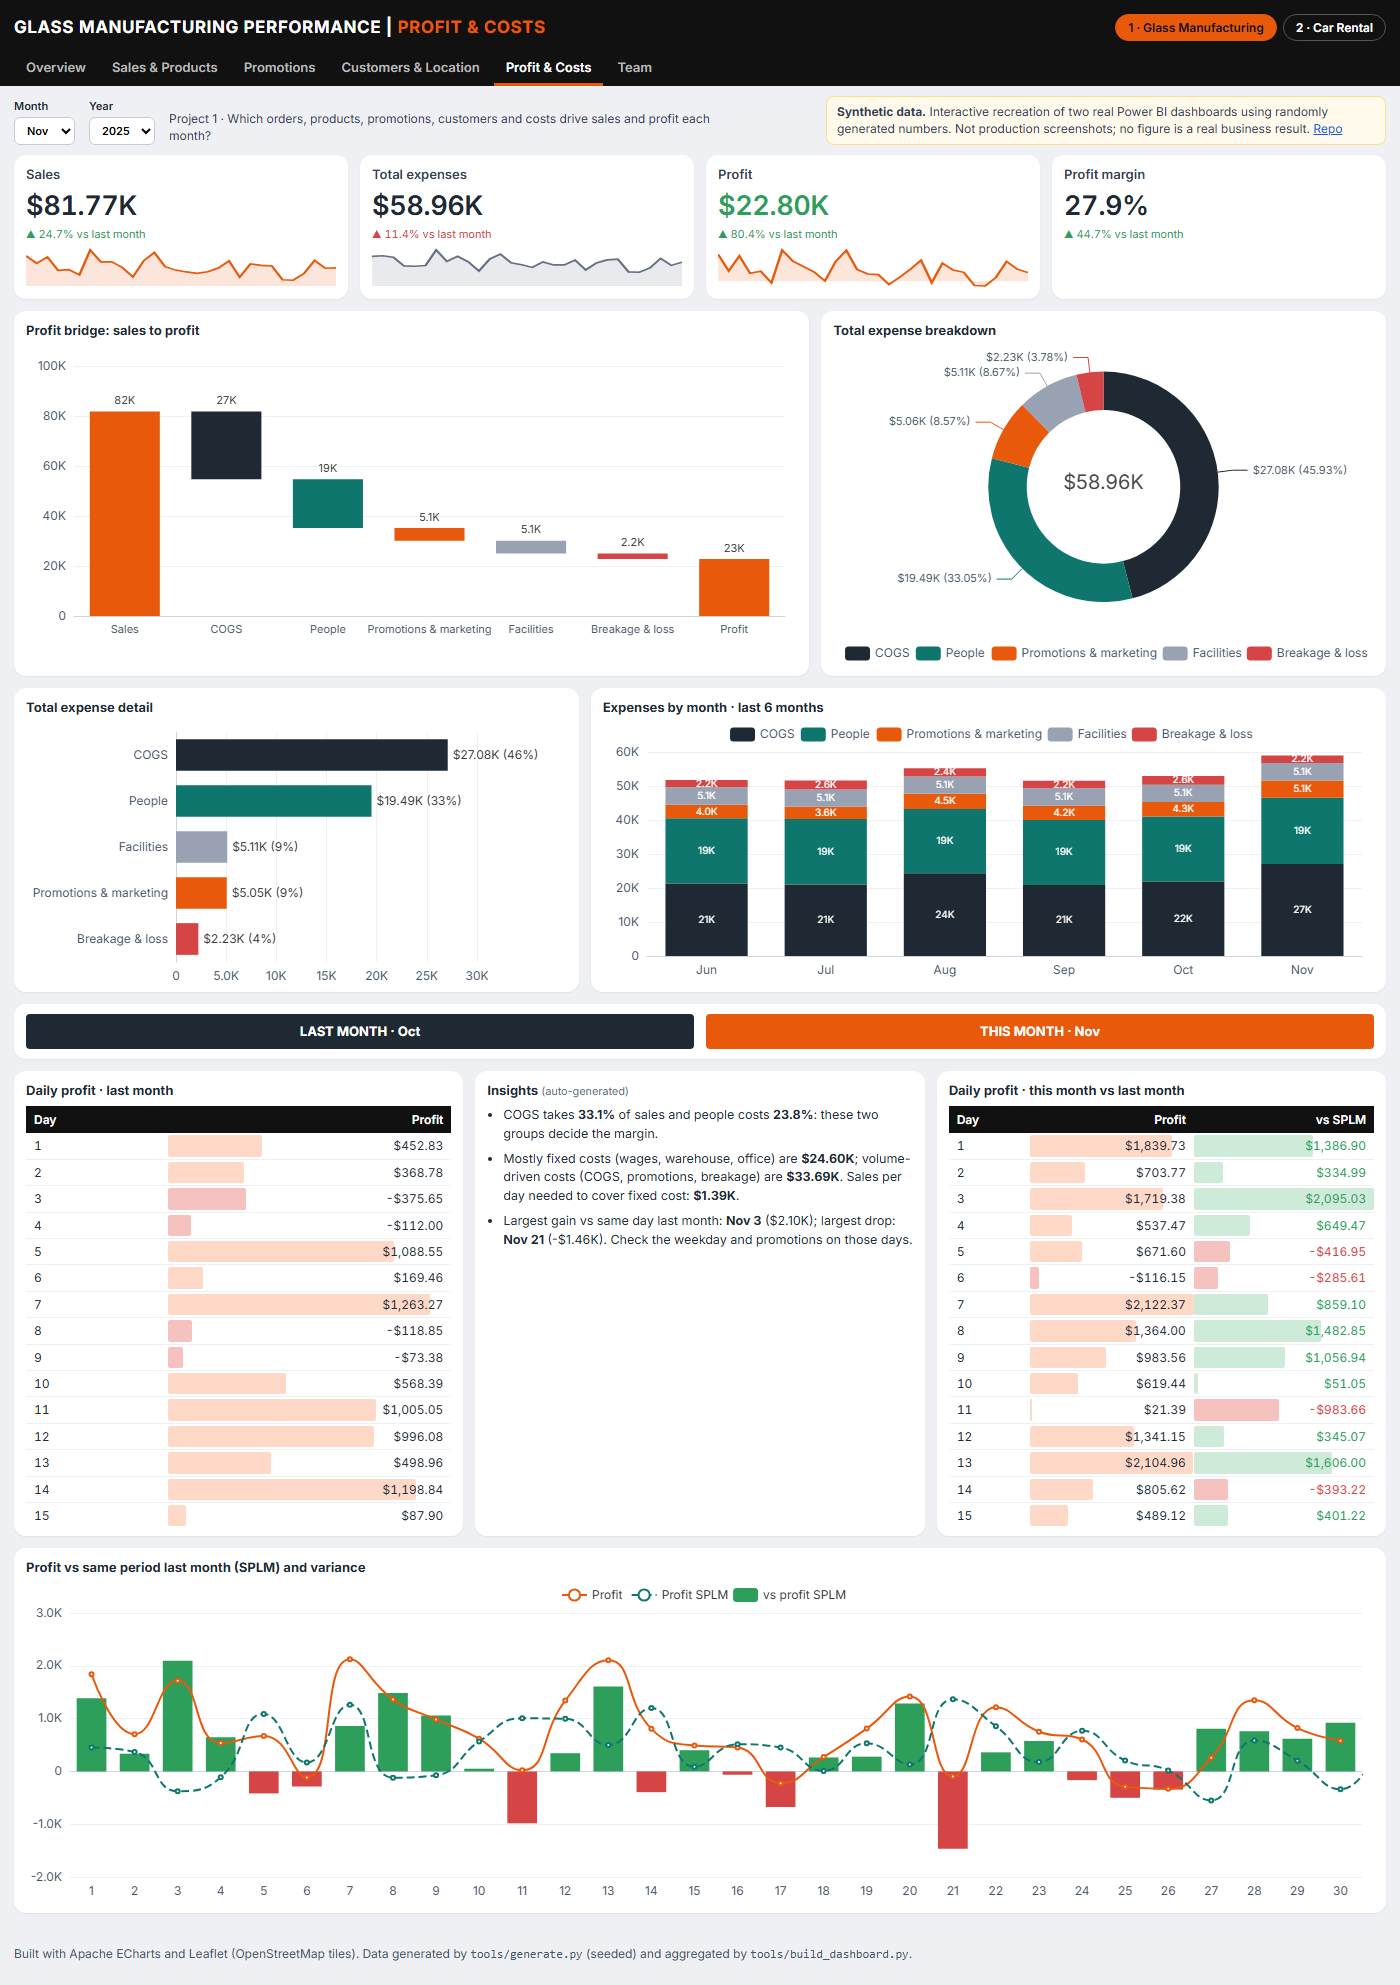
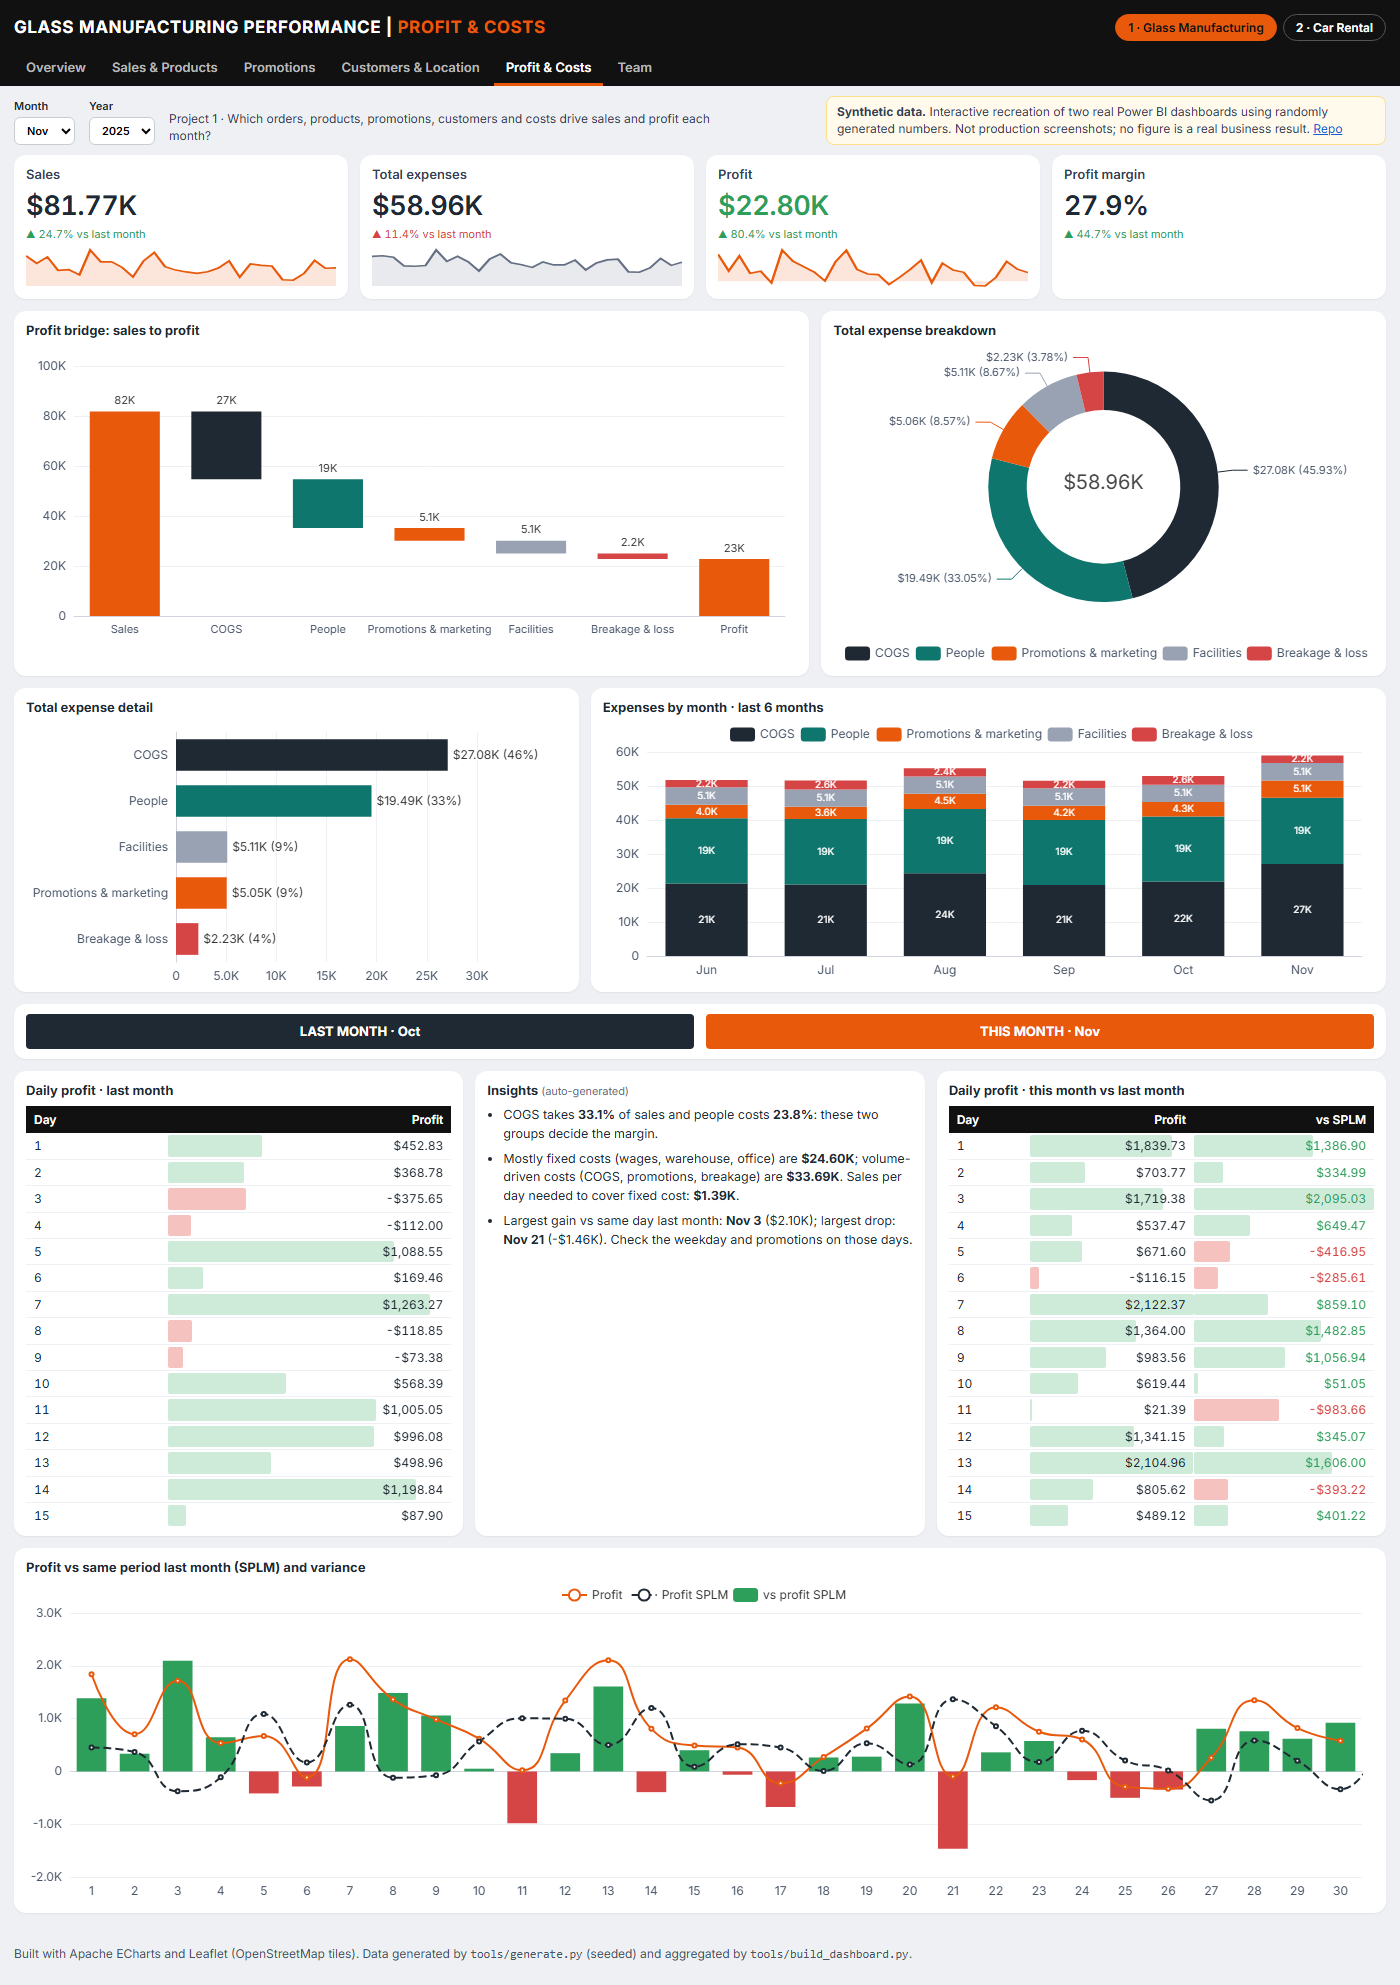
Daily profit tables use green/red only; SPLM line matches LAST MONTH color

Changed region(s): [[0.1229, 0.6247, 0.3071, 0.7809], [0.7371, 0.5622, 0.86, 0.7809], [0.1229, 0.5622, 0.1843, 0.5935]]

diff --git a/docs/mfg.js b/docs/mfg.js
@@ -171,8 +171,8 @@ function profit(m){
   var from=Math.max(1,m-5),cats=[];for(var i=from;i<=m;i++)cats.push(MN[i-1]);
   stacked("s-expbr",cats,GL.map(function(k){var a=[];for(var i=from;i<=m;i++)a.push(Math.round(EG[i][k]||0));return [k,a];}),GL.map(function(k){return GC[k];}));
   $("s-lm").textContent="LAST MONTH · "+(m>1?MN[m-2]:"-");$("s-tm").textContent="THIS MONTH · "+MN[m-1];
-  $("s-lmtbl").innerHTML=p?tbl([{t:"Day"},{t:"Profit",bar:TINT,f:f2}],p.p.map(function(v,i){return {v:[i+1,v]};})):"<p>No previous month.</p>";
-  $("s-tmtbl").innerHTML=tbl([{t:"Day"},{t:"Profit",bar:TINT,f:f2},{t:"vs SPLM",bar:T.goodTint,f:function(v){return '<span class="'+(v>=0?"up":"down")+'">'+f2(v)+"</span>";}}],
+  $("s-lmtbl").innerHTML=p?tbl([{t:"Day"},{t:"Profit",bar:T.goodTint,f:f2}],p.p.map(function(v,i){return {v:[i+1,v]};})):"<p>No previous month.</p>";
+  $("s-tmtbl").innerHTML=tbl([{t:"Day"},{t:"Profit",bar:T.goodTint,f:f2},{t:"vs SPLM",bar:T.goodTint,f:function(v){return '<span class="'+(v>=0?"up":"down")+'">'+f2(v)+"</span>";}}],
     c.p.map(function(v,i){return {v:[i+1,v,p&&p.p[i]!==undefined?v-p.p[i]:0]};}));
   var ec=EC[m],fixed=(ec["Production wages"]||0)+(ec["Sales salary"]||0)+(ec.Warehouse||0)+(ec["Back office"]||0)+(ec.Office||0),var_=(ec.COGS||0)+(ec.Promotions||0)+(ec["Breakage & loss"]||0),li=[];
   li.push("COGS takes <b>"+pc((ec.COGS||0)/(c.S||1))+"</b> of sales and people costs <b>"+pc(((ec["Production wages"]||0)+(ec["Sales salary"]||0))/(c.S||1))+"</b>: these two groups decide the margin.");
@@ -180,7 +180,7 @@ function profit(m){
   var vs=c.p.map(function(v,i){return p?v-(p.p[i]||0):0;}),bi=vs.indexOf(Math.max.apply(null,vs)),wi=vs.indexOf(Math.min.apply(null,vs));
   if(p)li.push("Largest gain vs same day last month: <b>"+MN[m-1]+" "+(bi+1)+"</b> ("+usd(vs[bi])+"); largest drop: <b>"+MN[m-1]+" "+(wi+1)+"</b> ("+usd(vs[wi])+"). Check the weekday and promotions on those days.");
   $("s-pins").innerHTML=ul(li);
-  opt("s-splm",{tooltip:{trigger:"axis",valueFormatter:f2},legend:{top:0},color:[ACC,BLUE,T.good],grid:GR,xAxis:xcat(dd),yAxis:yval(),
+  opt("s-splm",{tooltip:{trigger:"axis",valueFormatter:f2},legend:{top:0},color:[ACC,INK,T.good],grid:GR,xAxis:xcat(dd),yAxis:yval(),
     series:[{name:"Profit",type:"line",smooth:true,data:c.p.map(Math.round)},{name:"Profit SPLM",type:"line",smooth:true,data:p?p.p.map(Math.round):[],lineStyle:{type:"dashed"}},
       {name:"vs profit SPLM",type:"bar",data:c.p.map(function(v,i){var d=v-(p?p.p[i]||0:0);return {value:Math.round(d),itemStyle:{color:d>=0?T.good:T.bad}};})}]});
 }
